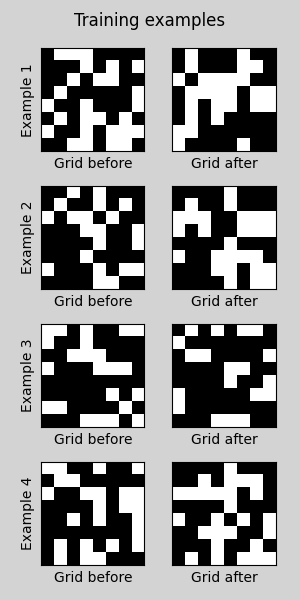
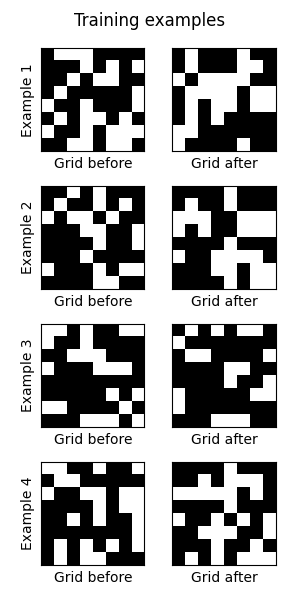
changed training_examples.png background from gray to white

diff --git a/_posts/2024-07-07-life-transformer.md b/_posts/2024-07-07-life-transformer.md
@@ -21,7 +21,6 @@ with single-head attention.
 Before we get into the details, here's a Life game, 
 computed by a SingleAttentionNet model.
 
-<!-- TODO: revert image paths to /assets rather than ../assets -->
 <p align="center">
 <img 
     src="/assets/posts/life-transformer/life_grid_computed_by_transformer.gif"
@@ -85,7 +84,6 @@ by randomly initialising grids and running the Game of Life on them.
 The following plot shows some examples, 
 where each row represents a pair.
 
-<!-- TODO: white background -->
 <p align="center">
 <img 
     src="/assets/posts/life-transformer/training_examples.png"
